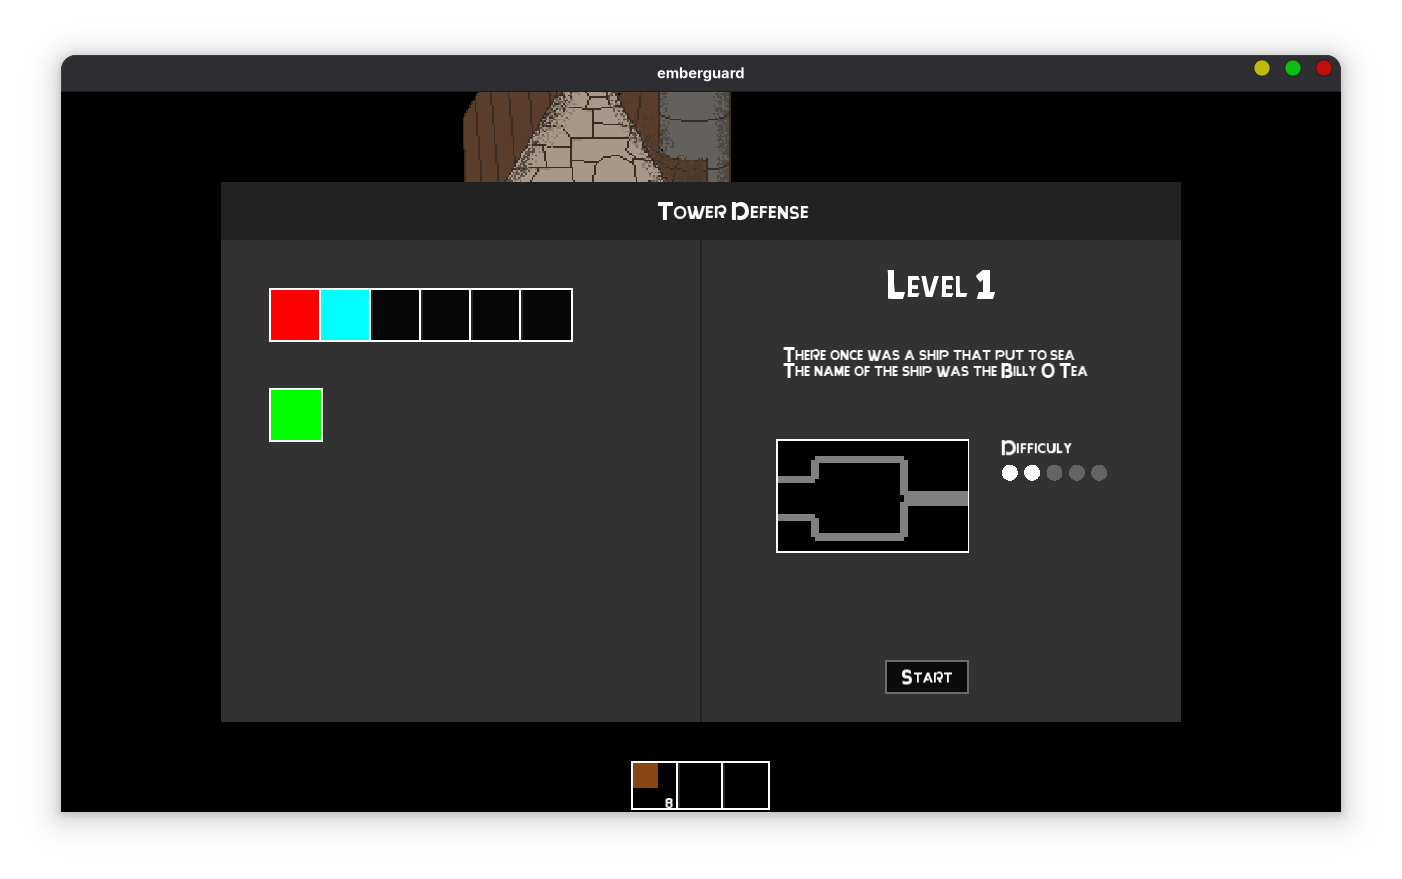
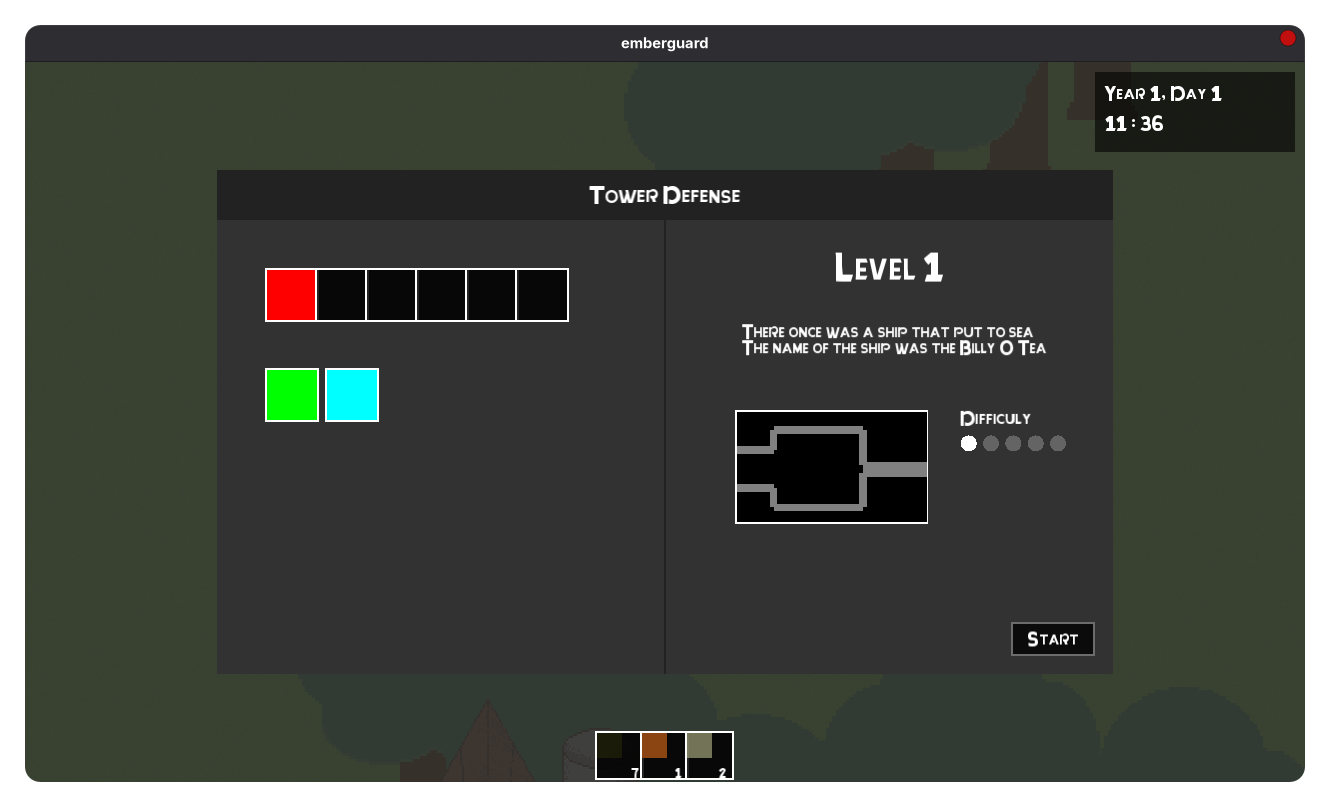
Update docs after game world extension

diff --git a/docs/FUNCTIONALITY.md b/docs/FUNCTIONALITY.md
@@ -42,6 +42,8 @@ The game consists of two main modules: **RPG** and **Tower Defense**, each with 
 
 ## Screenshots
 ![Game Screenshot](../assets/screenshots/screenshot1.png)
-![Game Screenshot](../assets/screenshots/screenshot2.png)
 ![Game Screenshot](../assets/screenshots/screenshot3.png)
+![Game Screenshot](../assets/screenshots/screenshot5.png)
+![Game Screenshot](../assets/screenshots/screenshot6.png)
+![Game Screenshot](../assets/screenshots/screenshot2.png)
 ![Game Screenshot](../assets/screenshots/screenshot4.png)

diff --git a/README.md b/README.md
@@ -20,3 +20,7 @@ A 2D RPG x Tower Defense game built in C++ using SFML, developed from scratch as
 ## Documentation
 - [Installation Guide](./docs/INSTALLATION.md)
 - [Functionality Overview](./docs/FUNCTIONALITY.md)
+
+## Screenshots
+![Game Screenshot](assets/screenshots/screenshot1.png)
+![Game Screenshot](assets/screenshots/screenshot5.png)
